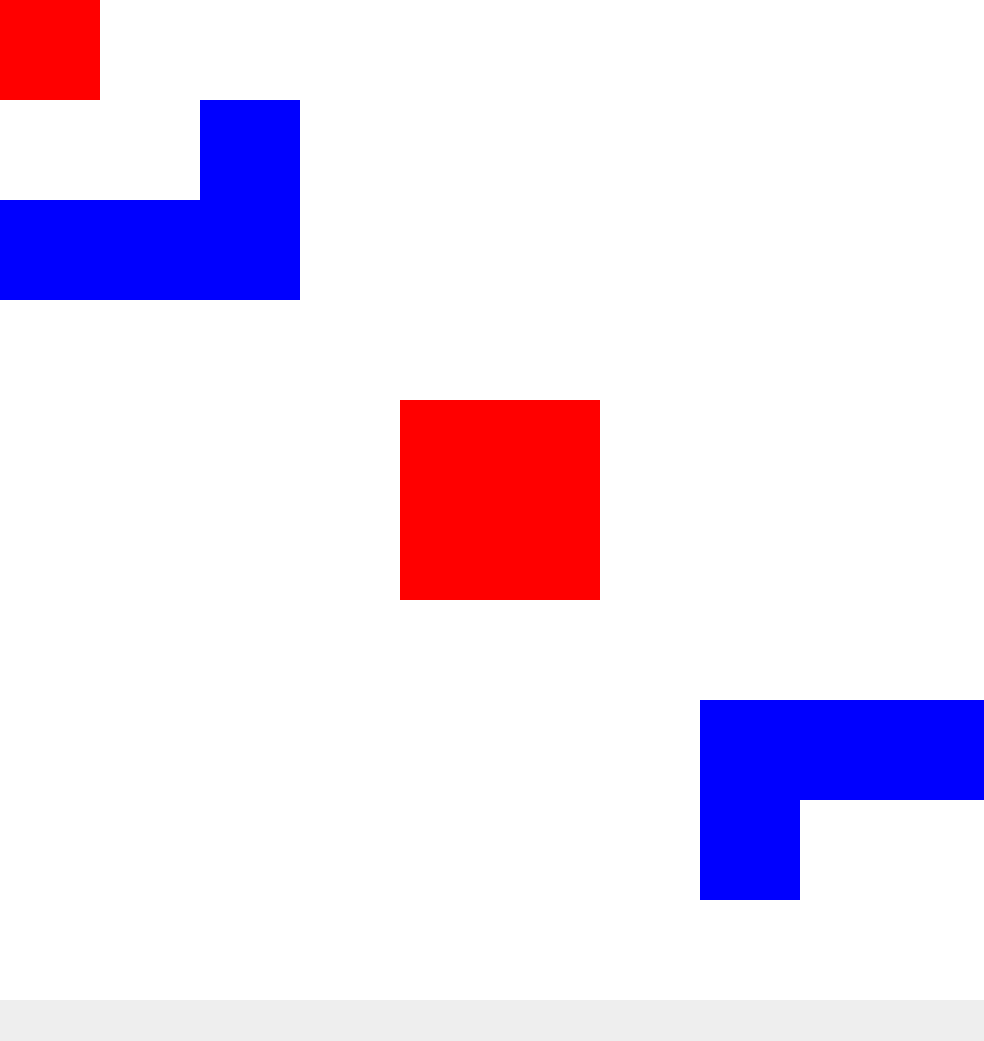
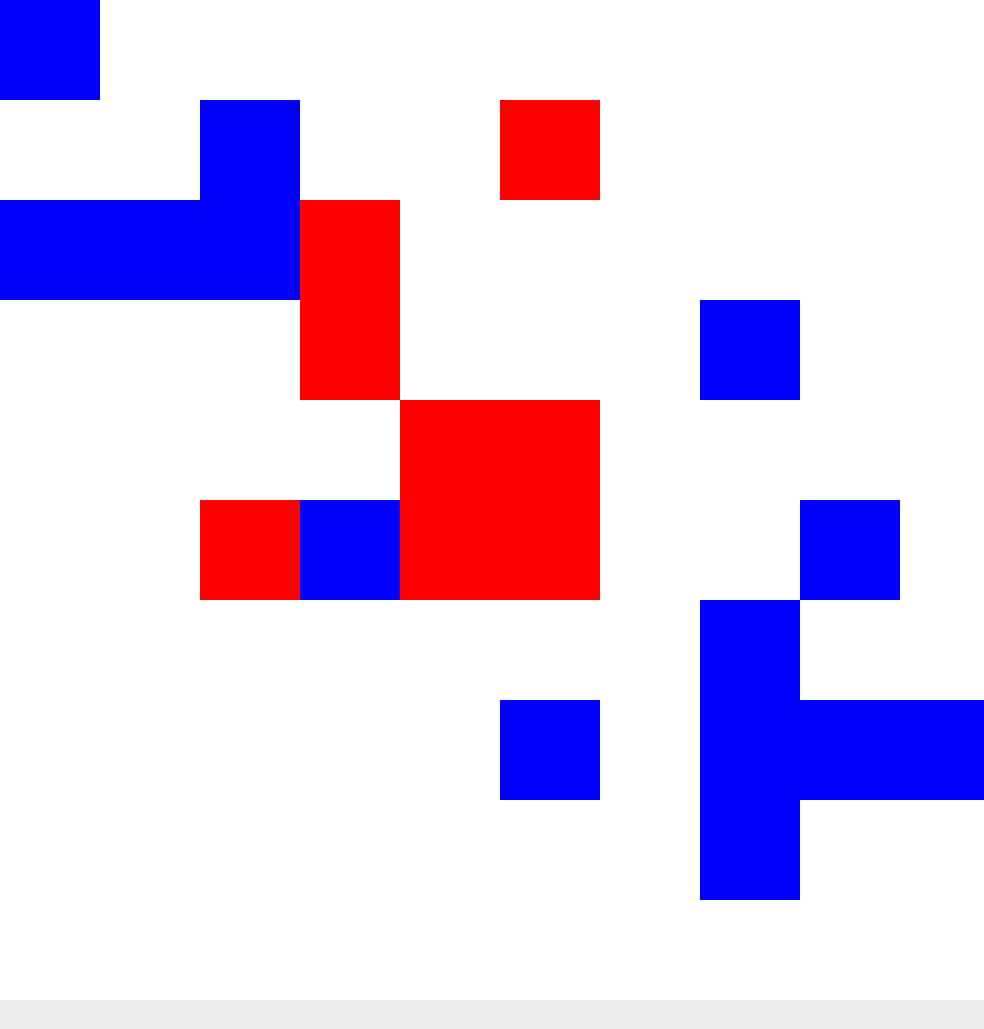
.

diff --git a/src/CrazyArcade/MainFrame.java b/src/CrazyArcade/MainFrame.java
@@ -25,7 +25,7 @@ public class MainFrame extends JFrame {
 	private JPanel panelSouth;
 
 	BufferedImage newBI;
-	BackgroundImage backgroundImage;
+	
 
 	// -----------------------------------
 	private PlayerRed playerRed;
@@ -35,7 +35,7 @@ public class MainFrame extends JFrame {
 	private final int PANEL_SIZE_XY = 100;
 
 	private boolean isButtonPressed;
-
+	BackgroundImage[][] backgroundImage = new BackgroundImage[PANELARRAY_SIZE][PANELARRAY_SIZE];
 	private CreatePanel[][] panelArray = new CreatePanel[PANELARRAY_SIZE][PANELARRAY_SIZE];
 
 	public MainFrame() {
@@ -272,7 +272,22 @@ public class MainFrame extends JFrame {
 		panelCenter.add(playerRed);
 		playerRed.setVisible(true);
 		playerBlue.setVisible(true);
+		bufferImageTest();
 		return newBI;
+	}
+	public void bufferImageTest() {
+		int height = newBI.getHeight();
+		int width = newBI.getWidth();
+		Graphics2D graphics2d = newBI.createGraphics();
+		graphics2d.setColor(Color.white);
+		graphics2d.fillRect(0, 0, 500, 500);
+		try {
+			// retrieve image
+			File outputfile = new File("saved1.png");
+			ImageIO.write(newBI, "png", outputfile);
+		} catch (IOException e) {
+			// handle exception
+		}
 	}
 
 	public void drawMapElements() {
@@ -281,17 +296,17 @@ public class MainFrame extends JFrame {
 			for (int j = 0; j < PANELARRAY_SIZE; j++) {
 				panelArray[i][j].setVisible(false);
 				if (panelArray[i][j].getBackground() == Color.red) {
-					backgroundImage = new BackgroundImage(mContext, i, j);
-					panelCenter.add(backgroundImage);
-					backgroundImage.setBackgroundImage(1);
+					backgroundImage[i][j] = new BackgroundImage(mContext, i, j);
+					panelCenter.add(backgroundImage[i][j]);
+					backgroundImage[i][j].setBackgroundImage(1);
 				} else if (panelArray[i][j].getBackground() == Color.blue) {
-					backgroundImage = new BackgroundImage(mContext, i, j);
-					panelCenter.add(backgroundImage);
-					backgroundImage.setBackgroundImage(2);
+					backgroundImage[i][j] = new BackgroundImage(mContext, i, j);
+					panelCenter.add(backgroundImage[i][j]);
+					backgroundImage[i][j].setBackgroundImage(2);
 				} else if (panelArray[i][j].getBackground() == Color.white) {
-					backgroundImage = new BackgroundImage(mContext, i, j);
-					panelCenter.add(backgroundImage);
-					backgroundImage.setBackgroundImage(0);
+					backgroundImage[i][j] = new BackgroundImage(mContext, i, j);
+					panelCenter.add(backgroundImage[i][j]);
+					backgroundImage[i][j].setBackgroundImage(0);
 					;
 				}
 

diff --git a/src/CrazyArcade/Bubble.java b/src/CrazyArcade/Bubble.java
@@ -15,6 +15,9 @@ public class Bubble extends JLabel implements Runnable{
 	int bubblePosY;
 	int playerPosX;
 	int playerPosY;
+	int jlabelPosX;
+	int jlabelPosY;
+	 
 
     private ImageIcon bubble;
 
@@ -52,6 +55,8 @@ public class Bubble extends JLabel implements Runnable{
 
     
 
+	
+	
 	@Override
 	public void run() {
 
@@ -61,6 +66,9 @@ public class Bubble extends JLabel implements Runnable{
 						&& playerPosY <= (j + 1) * 100) {
 					playerPosX = i*100;
 					playerPosY = j*100;
+					jlabelPosX = j;
+					jlabelPosY = i;
+					
 				}
 			}
 		}
@@ -92,6 +100,9 @@ public class Bubble extends JLabel implements Runnable{
 				e.printStackTrace();
 			}
 		}
+		
+		mContext.backgroundImage[jlabelPosX][jlabelPosY].setIcon(null);
+		  
 	}
 
 

diff --git a/src/CrazyArcade/BackgroundImage.java b/src/CrazyArcade/BackgroundImage.java
@@ -13,6 +13,8 @@ public class BackgroundImage extends JLabel {
 	private ImageIcon floor;
 
 	private MainFrame mContext;
+	
+	private int imageStatus;
  
 	public BackgroundImage(MainFrame mContext, int i, int j) {
 		this.mContext = mContext;
@@ -37,10 +39,21 @@ public class BackgroundImage extends JLabel {
 	public void setBackgroundImage(int i) {
 		if (i == 0) {
 			setIcon(floor);
+			imageStatus = 0;
 		} else if (i == 1) {
 			setIcon(unbreakBox);
+			imageStatus = 1;
 		} else if (i == 2) {
 			setIcon(breakBox);
+			imageStatus =2;
+		}
+	}
+	
+	public void bubbled() {
+		if (imageStatus == 1 || imageStatus == 0) {
+			
+		}else if (imageStatus == 2) {
+			setIcon(floor);
 		}
 	}
 
